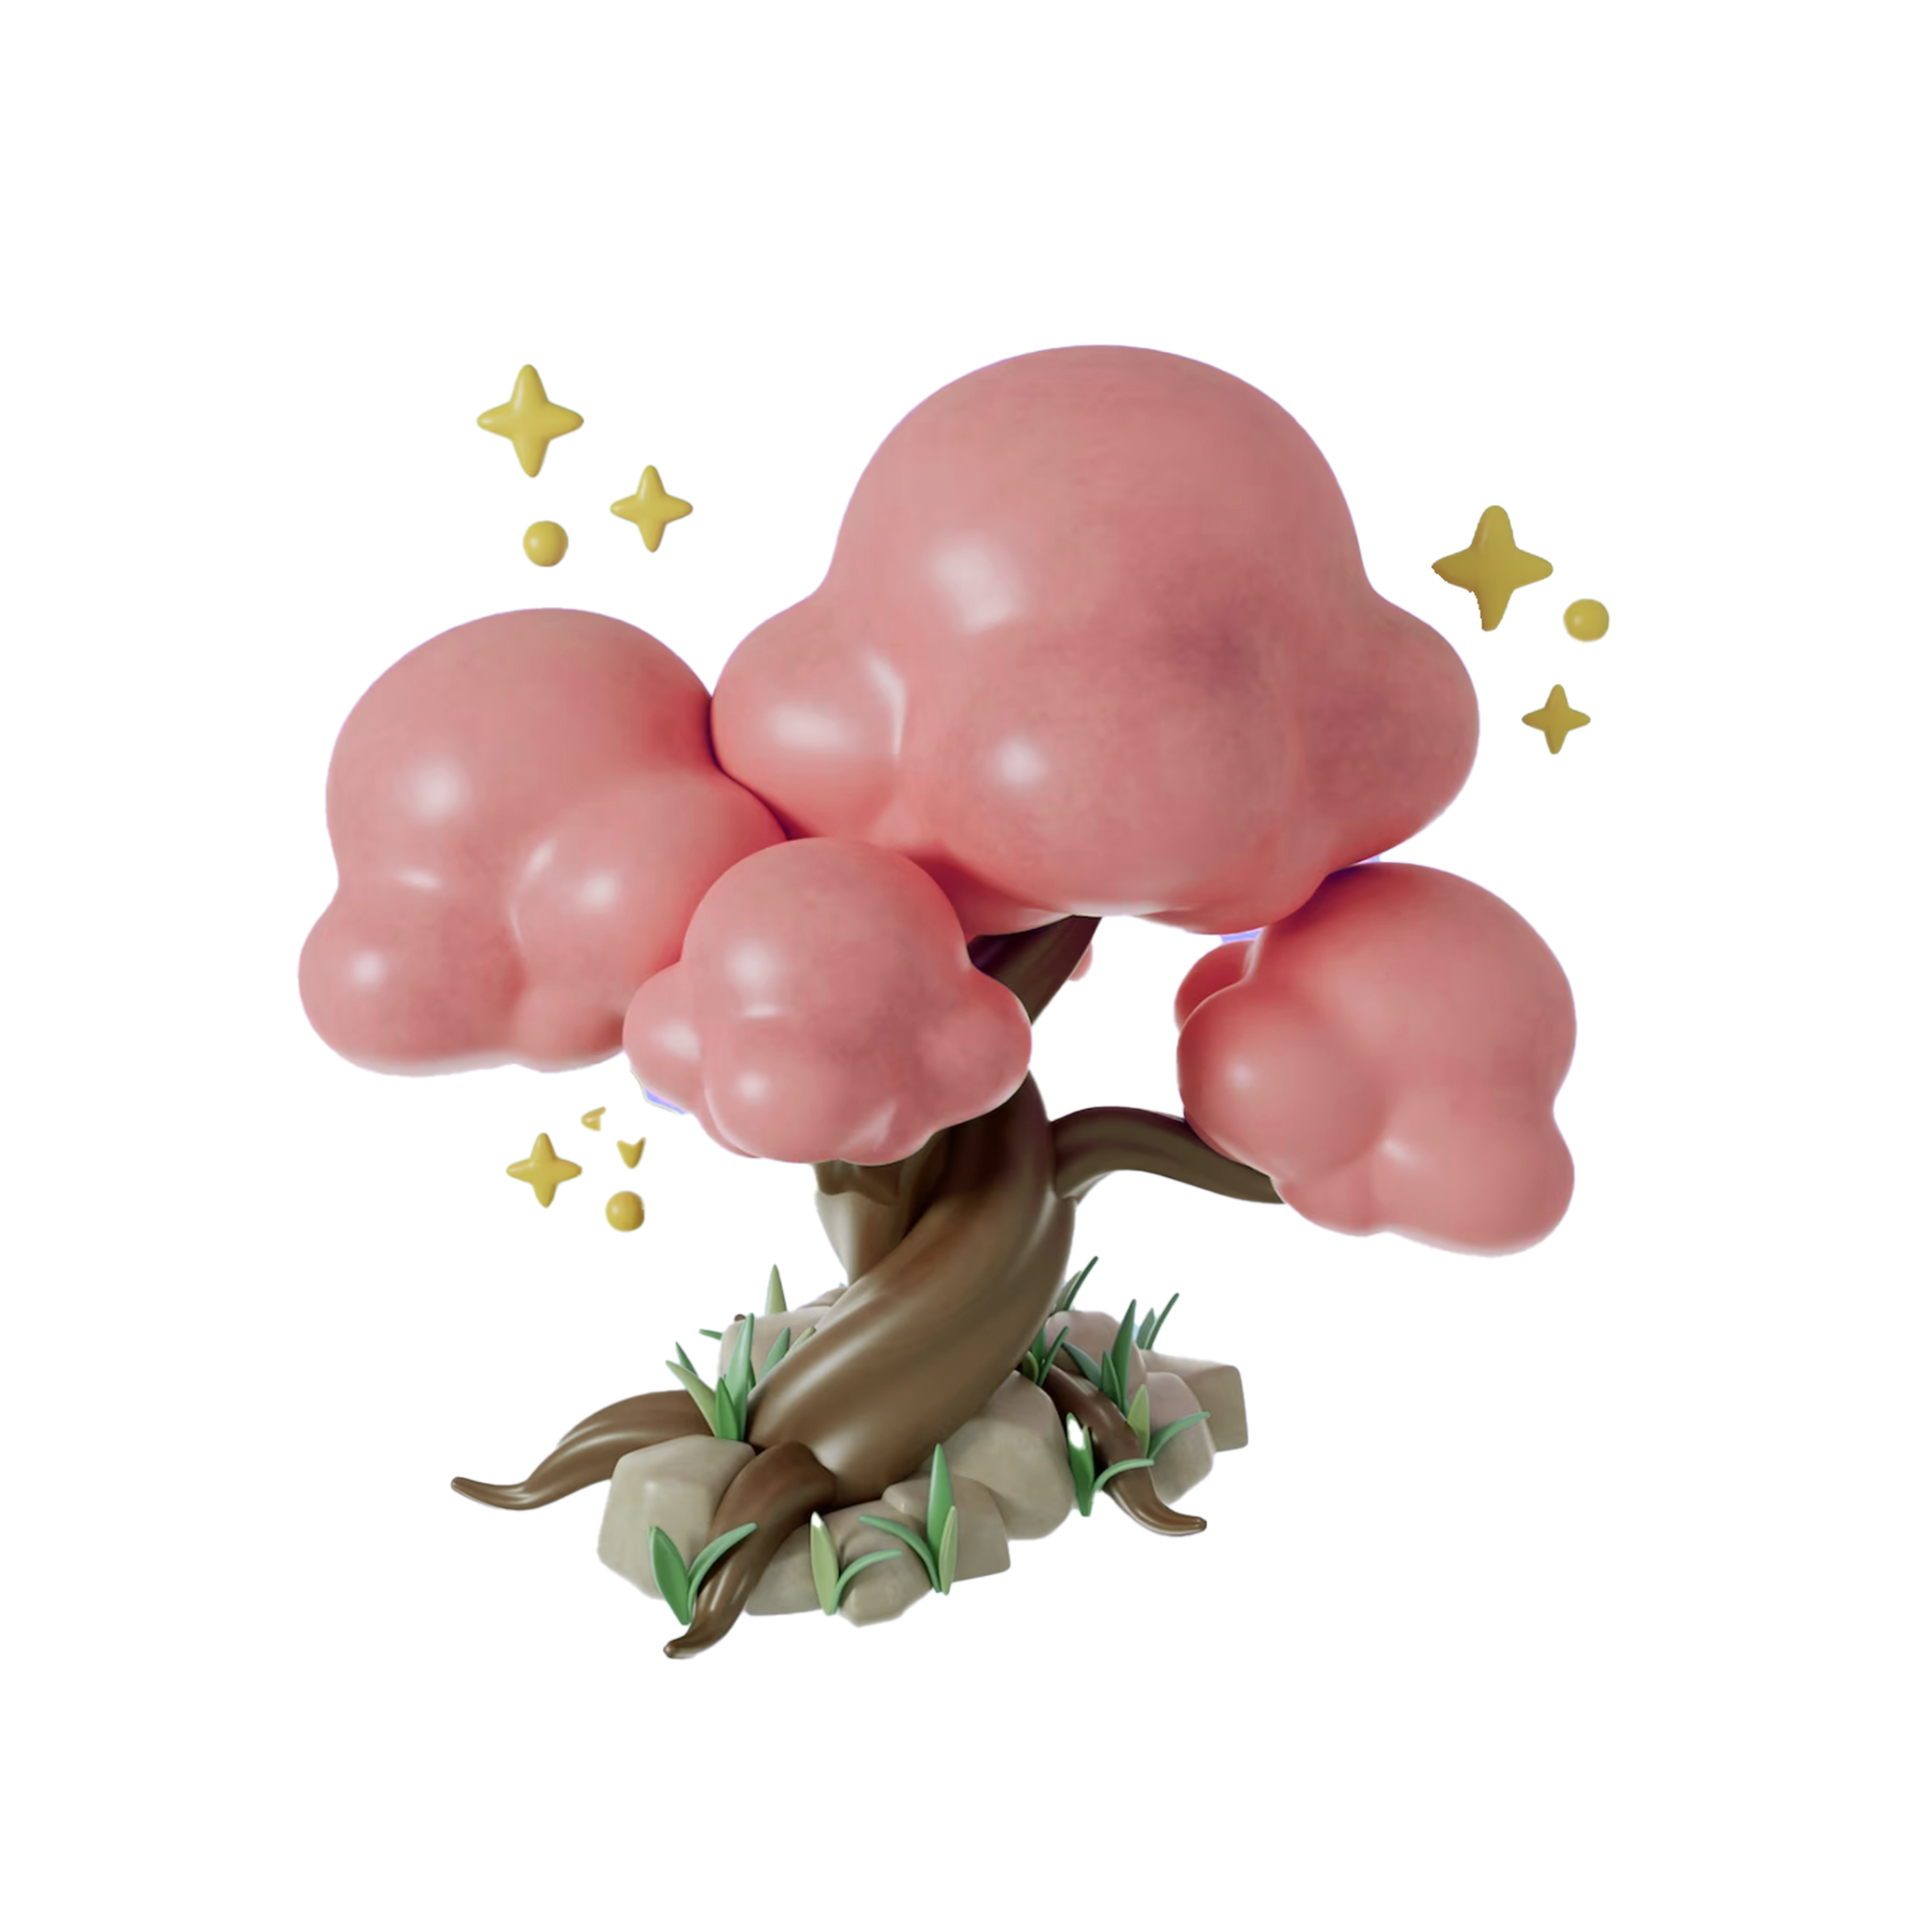
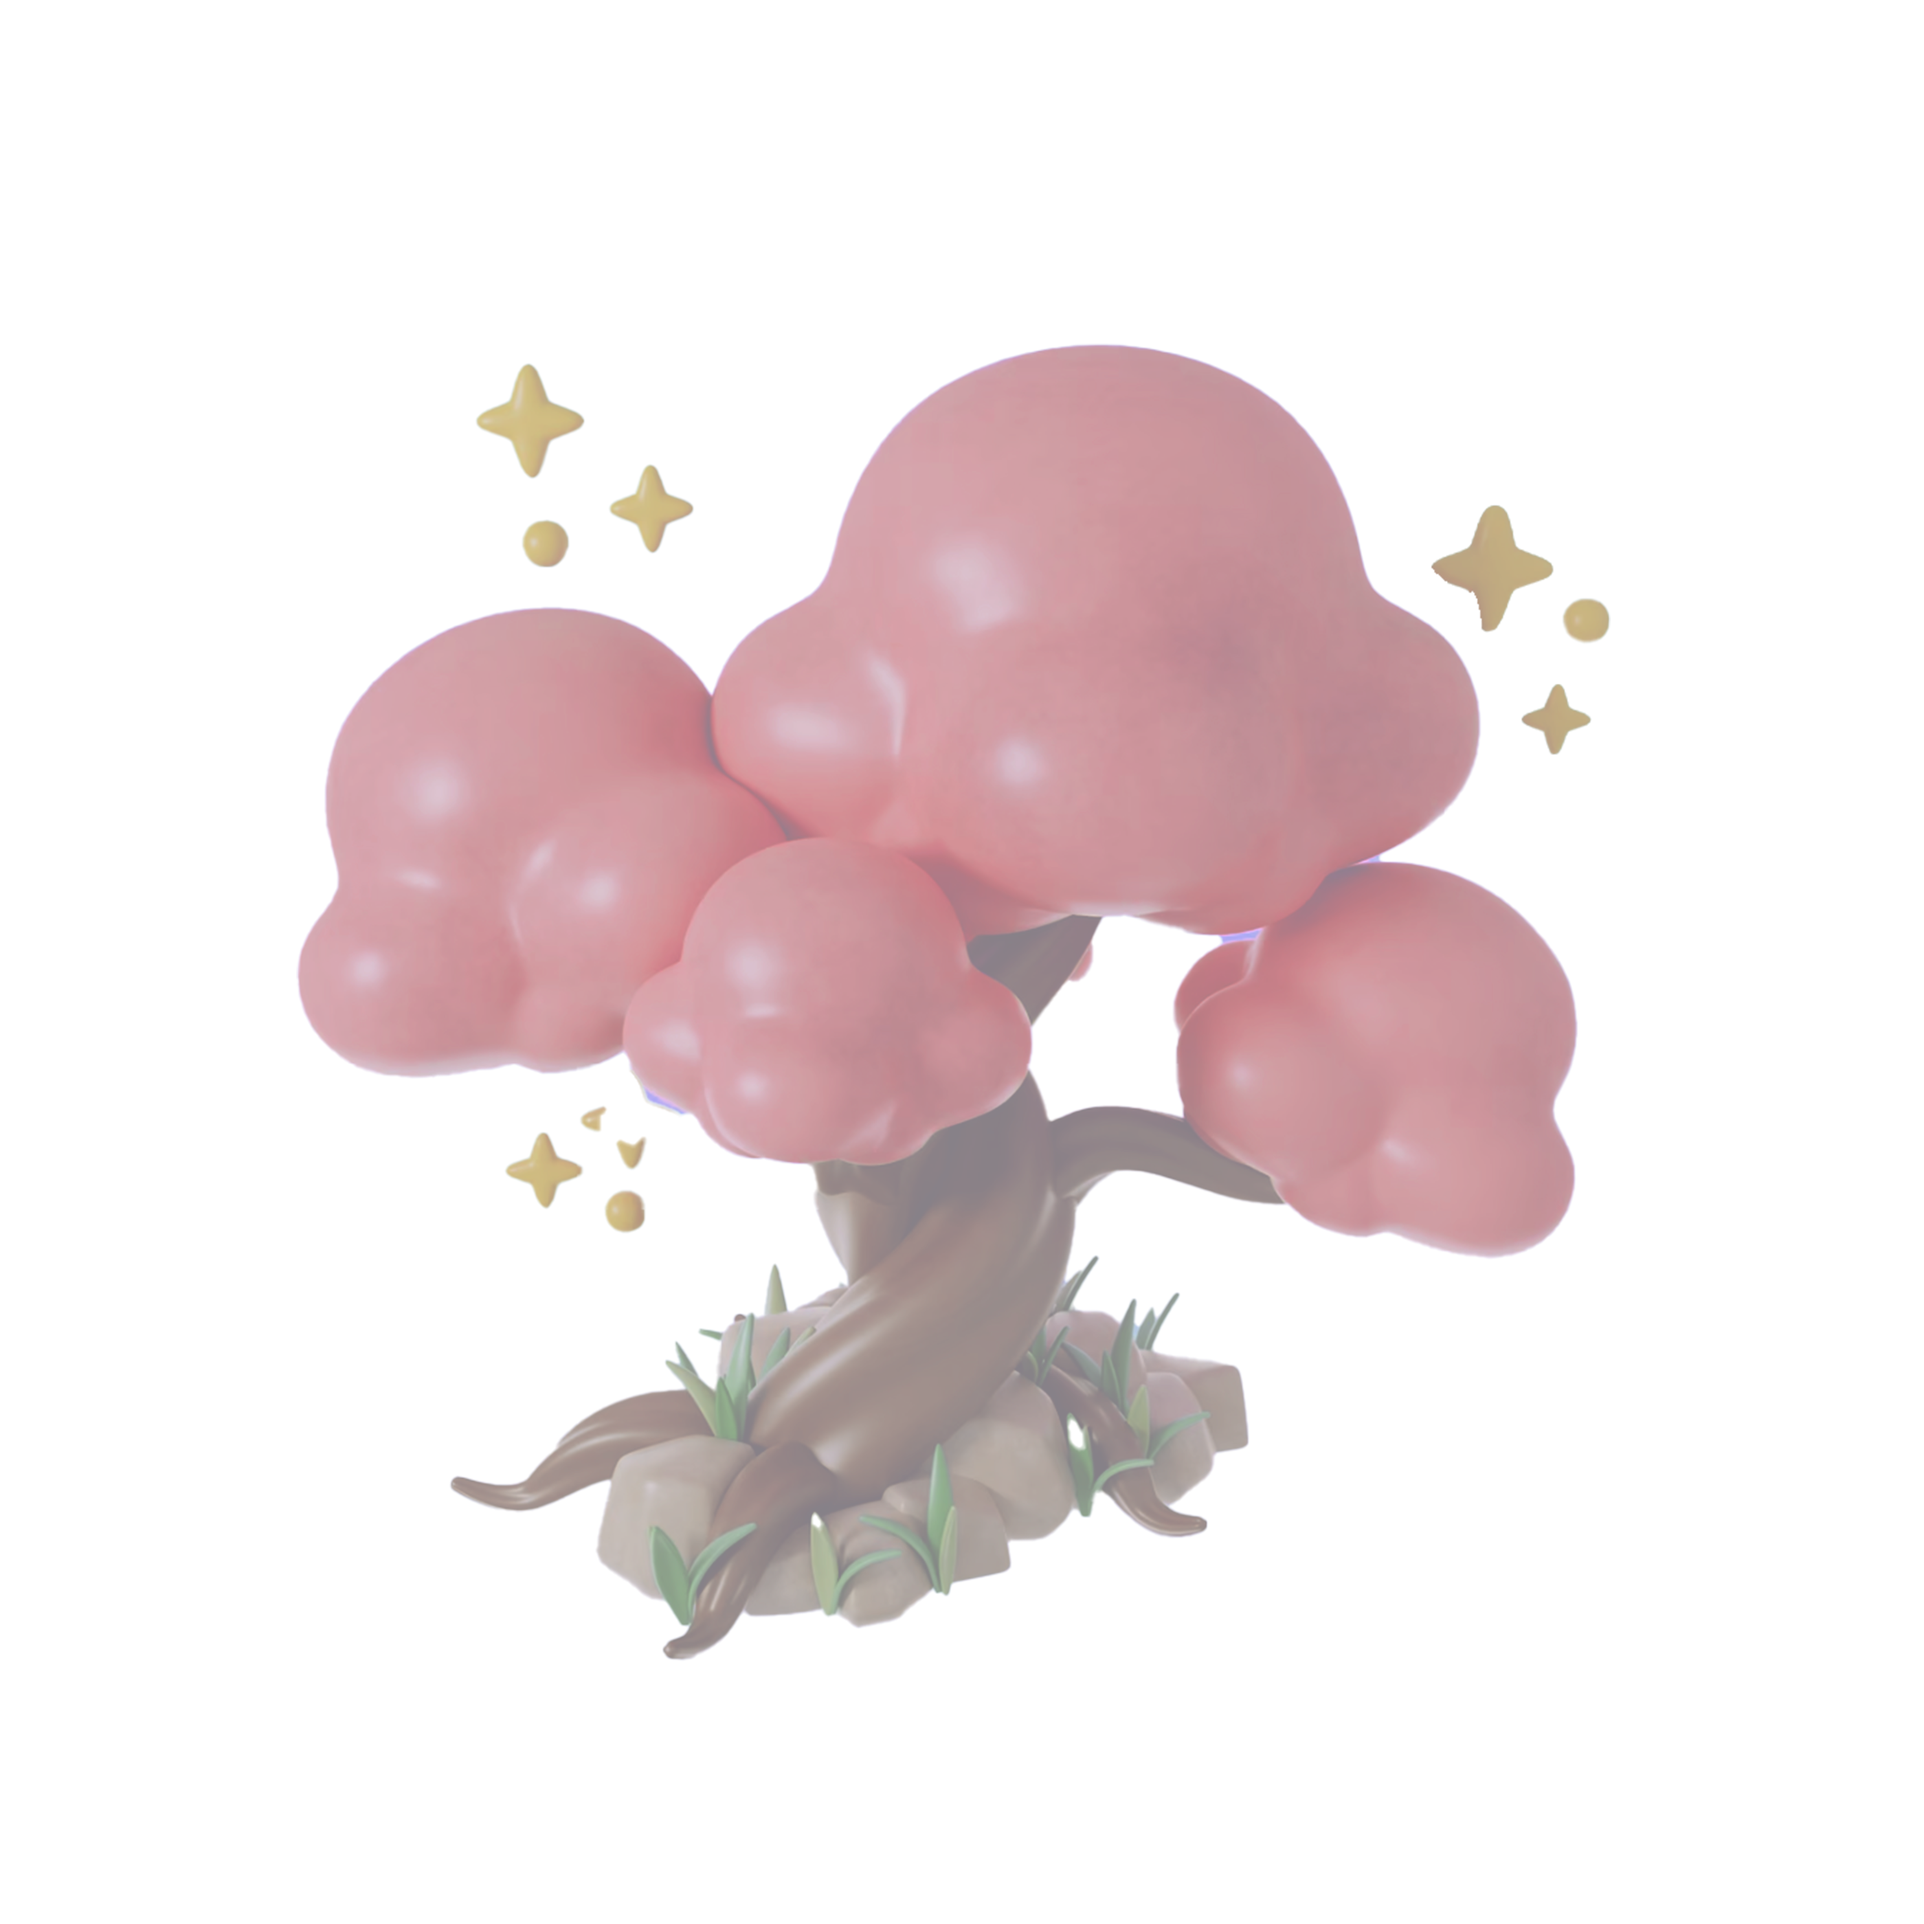
진짜진짜 죄송한데 디자인만 바꾼 거라서 그냥 development에 푸시하겠습니다...

Changed region(s): [[0.1864, 0.1554, 0.8389, 0.87], [0.2486, 0.5904, 0.3418, 0.6525]]

diff --git a/src/components/parents/ParentInfoComponent.vue b/src/components/parents/ParentInfoComponent.vue
@@ -23,7 +23,7 @@
         </v-card-title>
 
         <v-btn
-          v-if="info.id === memberInfo.id"
+          v-if="info.id === parseInt(memberInfo.id)"
           flat
           color="grey"
           size="small"
@@ -55,7 +55,7 @@
         style="margin-right: 50px"
       >
         <v-card-subtitle>BIRTH</v-card-subtitle>
-        <v-text>{{ setLocalDateString(info.birth) }}</v-text>
+        <v-text>{{ info.birthday }}</v-text>
       </div>
     </v-list-item>
 
@@ -72,10 +72,10 @@ const props = defineProps(['id'])
 const emits = defineEmits(['onClickMoveInfoModifyPage'])
 const memberInfo = useMemberInfo().getMemberInfo()
 
-const info = ref({id: null, email: null, nickname: null, birth: null, profileImgUrl: null})
+const info = ref({id: null, email: null, nickname: null, birthday: null, profileImgUrl: null})
 const fetchGetInfo = async () => {
 
-  const res = await getParentInfo(props.id)
+  const res = await getParentInfo(memberInfo.id)
   console.log(res)
   info.value = res
 
@@ -85,13 +85,6 @@ onMounted(() => {
   fetchGetInfo()
 })
 
-// 날짜 yyyy.MM.DD 변환 함수
-const setLocalDateString = (str) => {
-
-  const date = new Date(str)
-  return date.toLocaleDateString()
-
-}
 
 
 </script>

diff --git a/src/views/HomePage.vue b/src/views/HomePage.vue
@@ -5,7 +5,7 @@
     <div class="vue-word-cloud-wrapper">
       <vue-word-cloud
         :words="words"
-        :color="([, weight]) => weight > 10 ? '#8B63A6' : weight > 5 ? '#DC90AA' : '#79717A'"
+        :color="([, weight]) => weight > 10 ? '#5B407F' : weight > 5 ? '#D95F76' : '#595959'"
         font-family="Roboto"
       >
         <template v-slot="{text, weight, word}">
@@ -61,7 +61,7 @@ onMounted(() => {
 
 <style scoped>
 .background {
-  background-image: url("public/cherryblossom_icon.png");
+  background-image: url("public/cherryblossom_home.png");
   background-size: cover;
   background-color: rgb(255, 243, 237);
   background-position-y: 25px;

diff --git a/src/components/attendance/AttendanceStatusComponent.vue b/src/components/attendance/AttendanceStatusComponent.vue
@@ -17,8 +17,8 @@
 const props = defineProps(['attendanceStatus'])
 const setStatusColor = (i) => {
   if(i == 0) return 'bg-white'
-  if(i == 1) return 'bg-green'
-  if(i == 2) return 'bg-red'
+  if(i == 1) return 'bg-red'
+  if(i == 2) return 'bg-grey'
 }
 </script>
 

diff --git a/src/components/request/RequestFormComponent.vue b/src/components/request/RequestFormComponent.vue
@@ -120,7 +120,7 @@ onMounted(() => {
 })
 
 /** validation **/
-let valid = false
+let valid = true
 let validAlertText = ref('')
 
 for (const key in requestForm) {
